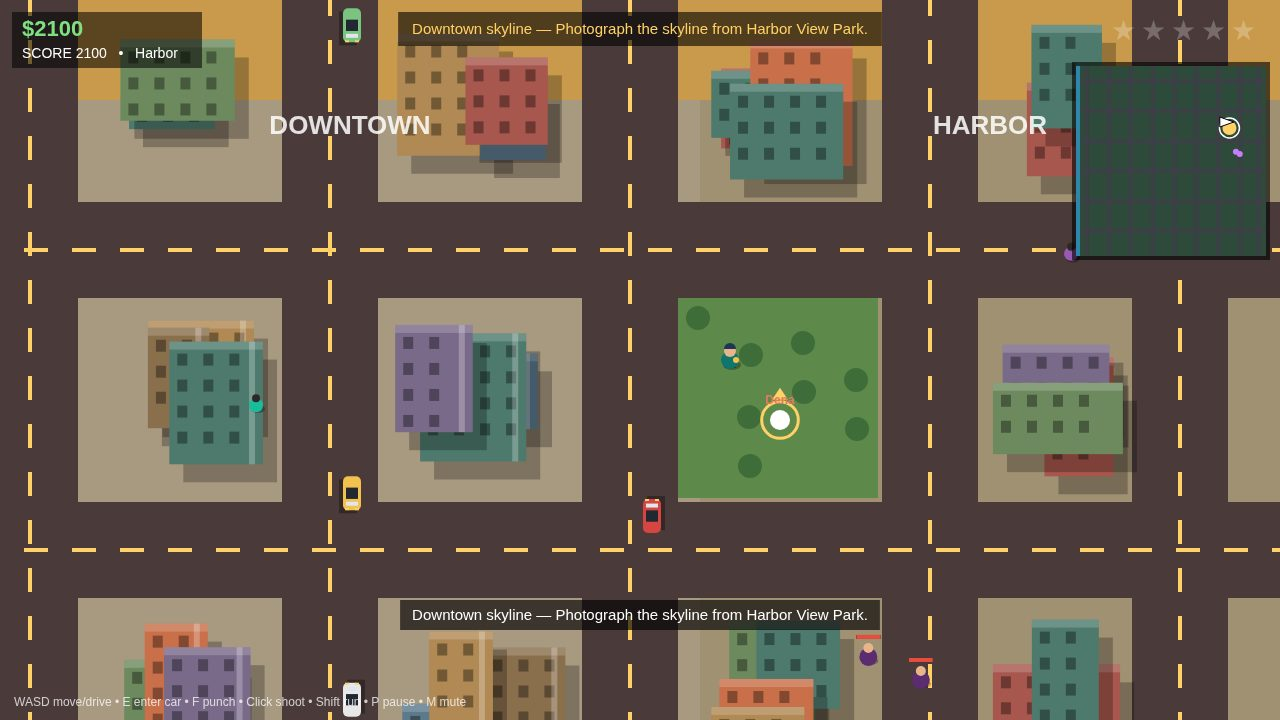
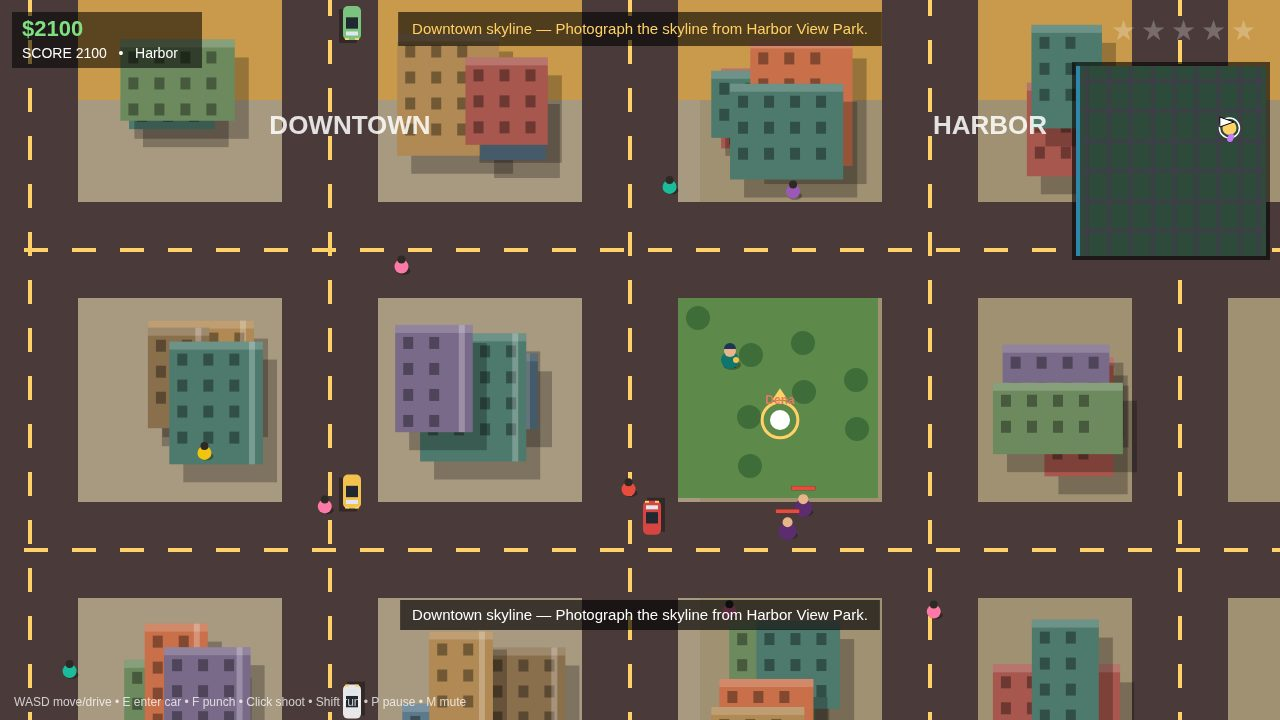
V5 activities sandbox: default variant sandbox — street race, parcel run, gun shop, sun-coin collectibles

diff --git a/game/src/config.js b/game/src/config.js
@@ -6,9 +6,10 @@ export const WORLD_H = 1900;
 export const ROAD = 96; // road width in world pixels
 export const BLOCK = 300; // city block pitch
 
-// Variant is chosen by ?variant=chase|story|heat|golden|sandbox (default chase).
+// Variant is chosen by ?variant=chase|story|heat|golden|sandbox (default sandbox:
+// V5 is the activities cut — street races, parcel runs, shops and sun coins).
 export function variantFromUrl() {
-  const v = new URLSearchParams(location.search).get('variant') || 'chase';
+  const v = new URLSearchParams(location.search).get('variant') || 'sandbox';
   return ['chase', 'story', 'heat', 'golden', 'sandbox'].includes(v) ? v : 'chase';
 }
 
